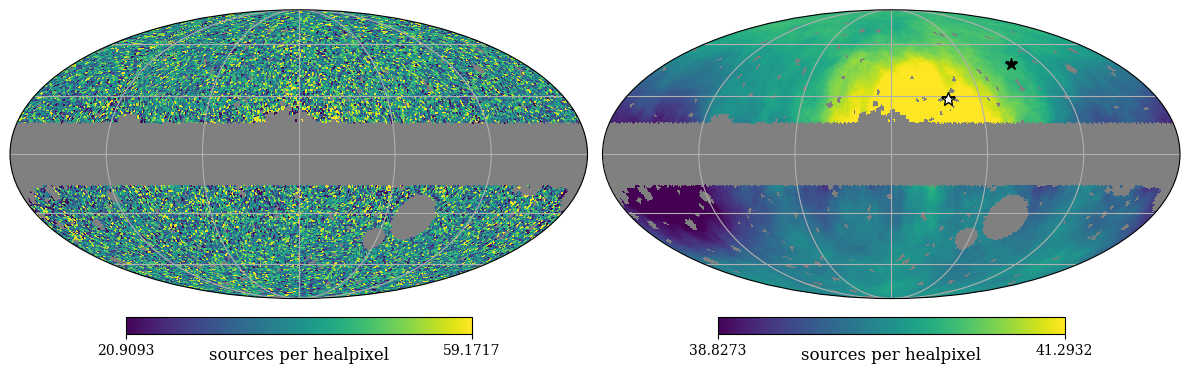
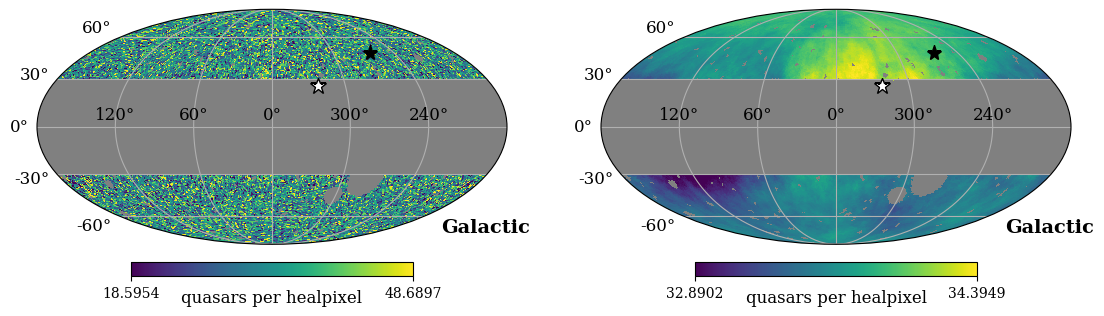
Added "standard" dipole measurement section, continuing to write others...

diff --git a/main.tex b/main.tex
@@ -2,7 +2,7 @@
 
 % To-Do
 % -----
-% - Hogg asks, can we mention field-level inference in the abstract?!
+% - Hogg & Kate: read Oayda et al. 2024. do we agree with their claims about the ability to measure the dipole from a small footprint / masked skies ?
 
 
 \documentclass[modern]{aastex631}
@@ -32,6 +32,8 @@
 \newcommand{\w}{\mathrm{W}}
 \newcommand{\g}{\mathrm{G}}
 \newcommand{\npix}{n_\mathrm{pix}}
+\newcommand{\nside}{N_\mathrm{side}}
+\newcommand{\dipamp}{|\vec{\mathcal{D}}_k|}
 
 \begin{document}
 
@@ -52,8 +54,8 @@ Anomalous power on large angular scales}
 \begin{abstract}\noindent % Hogg insists on this
     There is a discrepancy in amplitude between the dipole measured in the cosmic microwave background and the dipole measured in the distribution of radio and infrared selected quasars.
     These dipoles should be consistent if they are both caused primarily by a local Doppler boost.
-    Here we investigate the amplitudes of the large angular-scale spherical harmonic modes ($1\leq\ell\leq 8$) in the sky distribution of two all-sky quasar catalogs, \catwise and \quaia, both of which depend on NASA\! \wise infrared data.
-    We adopt a forward-modeling approach to generate all-sky mock density maps for both catalogs and employ a form of simulation-based inference to simultaneously measure the dipole amplitude and the level of any excess power on these large angular scales.
+    Here we investigate the amplitudes of the large angular-scale spherical harmonic modes ($1\leq\ell\leq 8$) in the sky distribution of two all-sky quasar catalogs, \quaia and \catwise, both of which depend on NASA\! \wise infrared data.
+    We adopt a forward-modeling approach to generate all-sky mock density maps for both catalogs and employ a form of simulation-based \abby{Hogg: field-level?} inference to simultaneously measure the dipole amplitude and the level of any excess power on these large angular scales.
     This inference yields dipole amplitude $X^{+Y}_{-Z}$ in the direction of the kinematic expectation (xx sigma higher than the expected amplitude) and an excess angular power variance amplitude of $X^{+Y}_{-Z}$.
     The excess power we find could indicate a very severe problem with the $\Lambda$CDM model.
     Our view instead is that this power is probably produced by unmodeled selection effects in these two quasar catalogs, and that it is contaminating all quasar dipole measurements that do not account for it.
@@ -70,7 +72,6 @@ There exists a dipole in the temperature of the CMB, taken to be purely kinemati
 \end{equation}
 \citep{planck_collaboration_planck_2020}.
 This Doppler boost of the CMB monopole is so well-measured by Planck that its expected modulations and aberrations of the temperature fluctuations have been detected in the CMB spectrum \citep{planck_collaboration_planck_2014}.
-\abby{note (emphasize here or somewhere?) that these kinematic effets are strong confirmation that the dipole is caused by our peculiar motion rather than being somehow intrinsic to the CMB!}
 
 The CMB and LSS rest frames should converge under the standard $\Lambda$CDM model; the kinematic dipole anisotropy in the number count of LSS tracers should align with the CMB temperature dipole in direction, with its amplitude modified by a prefactor that depends on the tracer sample.
 The predominant approximation comes from \citet{ellis_expected_1984} and gives the expected kinematic dipole from LSS as
@@ -78,11 +79,11 @@ The predominant approximation comes from \citet{ellis_expected_1984} and gives t
     \label{eq:ellisbaldwin}
     \vec{\mathcal{D}} \simeq \left[2+x(1+\alpha)\right]\vobs/c
 \end{equation}
-where $x$ is the number-count slope of the sources at the magnitude limit of the sample and $\alpha$ is the effective spectral index of the sources.
+where $x$ is the number-count slope of the sources at the magnitude limit of the sample, and $\alpha$ is the effective spectral index \abby{Hogg/KSF: will the average reader know what effective spectral index means, or should I define?} of the sources.
 
-However, there is a growing tension between these two dipole measurements.
+However, there is a claimed \abby{Hogg/KSF: help with word choice here?} tension between these two dipole measurements.
 Several initial analyses were performed on radio source counts from the 1.4 GHz NRAO VLA Sky Survey (NVSS; \citealt{condon_nrao_1998}).
-Though \citet{blake_velocity_2002} found this \textit{matter dipole} to be broadly consistent with the expectation from the CMB, later work such as \citet{singal_large_2011} showed that while the direction of the dipole roughly agreed with the CMB, its amplitude was larger than expected from Eq. \ref{eq:ellisbaldwin}.
+Though \citet{blake_detection_2002} found this matter dipole to be broadly consistent with the expectation from the CMB, later work such as \citet{singal_large_2011} showed that while the direction of the dipole roughly agreed with the CMB, its amplitude was larger than expected from Eq. \ref{eq:ellisbaldwin}.
 Results remain mixed; for example, \citet{darling_universe_2022} found the matter dipole to be consistent with the CMB expectation in both direction and amplitude using radio data from the Very Large Array Sky Survey (VLASS; \citealt{lacy_karl_2020}) and the Rapid
 Australian Square Kilometer Array Pathfinder Continuum
 Survey (RACS; \citealt{mcconnell_rapid_2020}).
@@ -90,26 +91,22 @@ Survey (RACS; \citealt{mcconnell_rapid_2020}).
 Recently, \citet{secrest_test_2021} (hereafter S21) measured the dipole from a sample of infrared-selected quasars from \catwisetwentytwenty to have more than twice the expected amplitude at $4.9\sigma$ confidence.
 \citet{dam_testing_2022} confirmed the S21 result for the identical sample using a different, Bayesian approach.
 This suggests that the source of the discrepancy with the CMB dipole is the sample itself (with the specific choices made in its construction) rather than the analysis method.
+\abby{should add more recent paper results at this point...}
 
-Several dipole analyses raise systematics as a possible source of the discrepancy ([CITE]).
-\abby{do they actually?? at this point I haven't found any major examples, and I think this is part of our point, but to say that no one has raised systematics is a strong claim}
-Unmitigated systematics in the source density maps would impact the angular power at several modes, not just $\ell=1$, though investigations of the angular power in these maps at large angular scales ($\ell\lesssim 10$) have been rare.
-[but not totally absent: point to papers that investigate this!]
+Importantly, unmitigated systematics in the source density maps would impact the angular power at several modes, not just $\ell=1$, though investigations of the angular power in these maps at large angular scales ($\ell\lesssim 10$) have been rare.
+\abby{``rare"... back this up with citations!}
 
 \quaia, a more recent all-sky spectroscopic quasar sample constructed from \gaia and \unwise, offers a new opportunity to measure the LSS dipole \citep{storey-fisher_quaia_2023}.
-The catalog is not totally independent from the S21 sample, since both rely on infrared observations from \textit{WISE}—nevertheless, \quaia involves different observations, source selection choices, and systematics modeling, and therefore can serve as a check on the dipole measured in S21.
+The catalog is not totally independent from the S21 sample, since both rely on infrared observations from \textit{WISE}—nevertheless, \quaia involves different observations, source selection, and systematics, and therefore can serve as a check on the dipole measured in S21.
 In this work, we measure the number-count dipole in the S21 and \quaia samples using the approach described in S21 and compare each to their expectation: the direction of the CMB dipole with amplitude given by Eq. \ref{eq:ellisbaldwin}.
 However, in order to avoid mode-coupling effects on the measured dipole, we further employ a forward-modeling approach to infer both the amplitude of the dipole in the expected direction and the overall level of excess angular power at multipoles $\ell\le 8$.
 \abby{need to explain motivation: why are we doing this? If there is unaccounted-for angular power at other large angular scales, due to mode coupling this could inflate the measured dipole amplitude on the cut sky... (I'm actually not sure how much I trust this statement now since checking out \citet{oayda_cosmic_2024}...)}
 We generate mock all-sky quasar density maps with the same selection function as applied to the real data and employ an Approximate Bayesian Computation (ABC) scheme to estimate the parameter posteriors.
 
-% We further measure the angular power at large spherical harmonic modes ($1\leq\ell\leq 8$) in these maps, compare the results to the expected power under $\Lambda$CDM, and explore the robustness of the measured angular power to investigator choices involved in the sample construction and fitting procedure.
-
 This paper is organized as follows.
 Section \ref{sec:data} describes the construction of the all-sky samples from \catwise and \quaia.
-Section \ref{sec:dipole_expectation} discusses the theoretical matter dipole and the expected amplitude of the dipole in the \catwise and \quaia catalogs under the Ellis-Baldwin approximation.
-In Section \ref{sec:AMCSMC} we present our forward-modeling approach and parameter inference via Approximate Bayesian Computation (ABC) using a Sequential Monte Carlo method.
-Section \ref{sec:model} explains the all-sky source density model used the generate the mock quasar maps for parameter inference.
+Section \ref{sec:dipole_theory} discusses the theoretical matter dipole and the expected amplitude of the dipole in the \catwise and \quaia catalogs under the Ellis-Baldwin approximation.
+In Section \ref{sec:inference_method} we present our forward-modeling approach, the quasar density model used to generate mock sky maps, and parameter inference via Approximate Bayesian Computation (ABC) using a Sequential Monte Carlo method.
 Finally, Sections \ref{sec:results} and \ref{sec:discussion} respectively contain the results and subsequent discussion.
 
 
@@ -140,10 +137,8 @@ However, unless otherwise stated, in other analyses we forego the ecliptic latit
 
 \begin{figure}
     \centering
-    \includegraphics[width=\textwidth]{images/S21_map.png}
-    \caption{Healpix density maps ($N_\mathrm{side}=64$) of the S21 sample with the lowest plane cut investigated, $|b|>15^\circ$, in galactic coordinates using a Mollweide projection. The color bar spans the monopole $\pm$ twice the standard deviation of each map. \textit{Left:} Source counts in each healpixel. \textit{Right:} Source counts smoothed to 1 steradian, with the color bar centered at the monopole. The black star marks the direction of the CMB dipole, and the white star marks the direction of the dipole measured in the \textit{fiducial} sample ($|b|>30^\circ$).
-    Note the underdensity in source density near the galactic center. \abby{update this plot: add graticule labels, make white star the fiducial S21 result (i.e. no regularization / hp.fit\_dipole() output)}
-    \abby{we're doing a $15^\circ$ plane cut in this plot but showing the $30^\circ$ dipole result. I think we should either show only the $30^\circ$ cut or commit to showing the full sky}}
+    \includegraphics[width=\textwidth]{images/catwise_map.png}
+    \caption{Healpix density maps ($\nside=64$) of the S21 sample in galactic coordinates using a Mollweide projection. The fiducial sample contains a $|b|>30^\circ$ plane cut as well as smaller masks. The black star marks the direction of the CMB dipole, and the white star marks the direction of the dipole measured in this sample via the standard method (see Section \ref{sec:standard_dipole}). \textit{Left:} Source counts in each healpixel. The color bar spans the monopole $\pm$ twice the standard deviation of the map. \textit{Right:} Source counts smoothed to 1 steradian, with the color bar centered at the monopole.}
     \label{fig:S21_map}
 \end{figure}
 
@@ -151,12 +146,12 @@ However, unless otherwise stated, in other analyses we forego the ecliptic latit
 \subsection{The Quaia Quasar Sample}
 \label{sec:quaia}
 The \gaia-\unwise Quasar Catalog, or \quaia, is an all-sky spectroscopic catalog constructed from quasar candidates in \gaia DR3 and infrared observations from \wise \citep{storey-fisher_quaia_2023}.
-It spans the largest comoving volume of any existing quasar catalog \abby{is this still true?}, making it especially suited for large-scale precision cosmological measurements.
+It spans the largest comoving volume of any existing quasar catalog \abby{KSF: is this still true?}, making it especially suited for large-scale precision cosmological measurements.
 We use the $G\leq 20.0$ catalog as our fiducial sample, which has 530,364 sources in the fiducial $|b|<30^\circ$ cut, shown in Figure \ref{fig:quaia_map}.
 % We also use the less pure $G\leq 20.5$ sample when exploring dependence on magnitude limit.
 
 The construction of the \quaia sample is largely analogous to the S21 method.
-\abby{justification for why we don't (need to) correct the magnitudes for reddening like in S21?}
+\abby{KSF: justification for why we don't (need to) correct the magnitudes for reddening like in S21?}
 The masks are identical, but we make magnitude cuts in the optical G band ($\mathrm{G}\leq 20.0$) rather than the infrared W1 band.
 We also correct the source counts with \quaia's selection function (see Section \ref{sec:selfuncs}).
 Figure \ref{fig:quaia_map} shows the \quaia sample after correcting by the selection function.
@@ -164,7 +159,7 @@ Figure \ref{fig:quaia_map} shows the \quaia sample after correcting by the selec
 \begin{figure}
     \centering
     \includegraphics[width=\textwidth]{images/quaia_map.png}
-    \caption{Healpix density maps ($N_\mathrm{side}=64$) of the \quaia sample with the lowest plane cut, $|b|>15^\circ$, in galactic coordinates using a Mollweide projection. The source densities have been corrected using the $G<20.0$ selection function map. The masks are identical to those used in the S21 sample (Figure \ref{fig:S21_map}), with the color bar again spanning the monopole $\pm$ twice the standard deviation of each map. \textit{Left:} Source counts in each healpixel. \textit{Right:} Source counts smoothed to 1 steradian. The black star marks the direction of the CMB dipole, and the white star marks the direction of the dipole measured in the \textit{fiducial} sample ($|b|>30^\circ$). Note the unevenness in source density around the galactic plane, in particular the slight overdensity just above the galactic center. There are some extra masked pixels at low galactic latitudes in places with zero quasar counts.}
+    \caption{Healpix density maps ($\nside=64$) of the \quaia sample in galactic coordinates using a Mollweide projection. The fiducial sample contains a $|b|>30^\circ$ plane cut as well as smaller masks. The black star marks the direction of the CMB dipole, and the white star marks the direction of the dipole measured in this sample via the standard method (see Section \ref{sec:standard_dipole}). \textit{Left:} Source counts in each healpixel. The color bar spans the monopole $\pm$ twice the standard deviation of the map. \textit{Right:} Source counts smoothed to 1 steradian, with the color bar centered at the monopole.}
     \label{fig:quaia_map}
 \end{figure}
 
@@ -172,17 +167,25 @@ Figure \ref{fig:quaia_map} shows the \quaia sample after correcting by the selec
 \subsection{Selection functions}
 \label{sec:selfuncs}
 For each sample, we generate a selection function, which gives the completeness in each pixel relative to the predicted number of quasars that would be observed in the absence of any selection effects.
-To model the selection function, \cite{storey-fisher_quaia_2023} uses a Gaussian process to fit healpix maps ($N_\mathrm{side}=64$; \citealt{gorski_healpix_2005}) of the systematics templates to the source counts in each healpixel.
+To model the selection function, \cite{storey-fisher_quaia_2023} uses a Gaussian process to fit healpix maps ($\nside=64$; \citealt{gorski_healpix_2005}) of the systematics templates to the source counts in each healpixel.
 The systematics templates for \quaia are dust extinction, \gaia and \unwise source density, and those missions' scanning laws.\abby{might want to be more specific ?}
-For \catwise, the templates are the \unwise source density... \abby{zodi?}
+We apply the same procedure to \catwise, using the \unwise source density and zodiacal light as the templates.
 To correct the observed counts by the selection function, we simply divide the counts by the relative completeness in each pixel.
 Figure \ref{fig:selfuncs} shows the selection function maps generated for each quasar sample.
 
-[ Figure: selection functions! ]
+\begin{figure}
+    \centering
+    \includegraphics[width=\textwidth]{images/selfuncs.png}
+    \caption{Selection function maps ($\nside=64$) for the \quaia $G\le20.0$ (\textit{left}) and \catwisetwentytwenty (\textit{right}) quasar catalogs.}
+    \label{fig:selfuncs}
+\end{figure}
 
 
-\section{The dipole expectation}
-\label{sec:dipole_expectation}
+\section{The number-count dipole}
+\label{sec:dipole_theory}
+
+\subsection{The Ellis-Baldwin approximation}
+\label{sec:EB}
 Under the kinematic interpretation of the dipole, both the CMB and matter dipole anisotropies are caused by our proper motion with respect to the frame in which the CMB is maximally isotropic.
 Therefore the expected direction of the matter dipole is the same as the CMB dipole (Eq. \ref{eq:CMB_velocity}).
 The expected amplitude of the matter dipole, however, depends on the velocity $\vobs$ of the observer and the properties of the sources in the sample, in particular the number-count slope $x$ and the effective spectral index $\alpha$ of the sample.
@@ -218,24 +221,44 @@ For \catwise, this is $\alpha=1.26$, while for \quaia, the mean is $\alpha=0.71$
 
 From Eq. \ref{eq:ellisbaldwin}, with the velocity inferred from the CMB dipole (Eq. \ref{eq:CMB_velocity}) the expected dipole amplitude in the fiducial S21 sample is $\mathcal{D}_\mathrm{S21}\sim 0.0074$.
 For \quaia, the expected dipole amplitude in the fiducial sample is $\mathcal{D}_\mathrm{Quaia}\sim 0.0052$.
-\abby{how many sig figs to quote here, given that this in an imprecise measurement? should I even only quote one? I currently use two sig figs for the simulations}
-[
-The sources included in each sample change as we investigate the effect of parameter choices involved in their construction (Sections \ref{sec:S21_choices} and \ref{sec:quaia_choices}), meaning the $\alpha$ distributions and number-count curves change too.
-We checked that this change has minimal impact on the expected dipole amplitude, so we use the fiducial values when comparing the measured amplitudes in each sample.
-]
-\abby{might fully cut this, I don't think we're including these parameter choice tests anymore}
+
+\subsection{The dipole model}
+\label{sec:dipole_model}
+
+\abby{bad name.. placeholder}
+
+The dipole anisotropy in the source counts in direction $\hat n=(\theta,\phi)$ on the sky can be expressed as
+\begin{equation}
+    \mathcal{D}(\theta,\phi)=\vec{\mathcal{D}}\cdot \hat n = \sum_{j=1}^3 d_jD_j(\theta,\phi)
+\end{equation}
+where $\vec{\mathcal{D}}\equiv(d_1,d_2,d_3)$ is a 3-vector of amplitudes, and $D_j(\theta,\phi)$ are three orthogonal dipole templates, shown in Figure \ref{fig:dipole_templates}.
+Under the assumption that the observed quasar distribution is isotropic but modified by a Doppler boost (i.e. that the only anisotropy is dipolar), the expected number of quasars at $(\theta,\phi)$ on the sky is the sum of the monopole and dipole contributions:
+\begin{equation}
+\label{eq:dipole_model}
+    n'(\theta,\phi) = \bar n + \mathcal{D}(\theta,\phi)
+\end{equation}
+where $\bar n$ is the monopole, the mean number of quasars in the map.
+\abby{this notation feels icky, too many $d$ variables, $D$, $\mathcal{D}$... KSF/Hogg: any suggestions?}
+\abby{suggestions for ``expected number of quasars" ? do we like the prime? or should I use a different variable (also see eq. \ref{eq:chisq})?}
+
+Of course, the amplitude of the dipole (e.g. as given by \ref{eq:ellisbaldwin}) is the usual norm of the vector,
+\begin{equation}
+    |\vec{\mathcal{D}}|=\sqrt{d_1^2 + d_2^2 + d_3^2}
+\end{equation}
+\abby{this is likely unnecessary, but writing out for completeness to connect to the EB approximation}
+
+\begin{figure}
+    \centering
+    \includegraphics[width=\textwidth]{images/dipole_templates.png}
+    \caption{The three orthogonal dipole templates, $D_j(\theta,\phi)$, in Galactic coordinates using a Mollweide projection, used in the least-squares fit to measure the dipole vector $\vec{\mathcal{D}}$ in the quasar catalogs.}
+    \label{fig:dipole_templates}
+\end{figure}
 
 \subsection{Relationship between $|\vec{\mathcal{D}}|$ and $C_1$}
 
 Existing literature typically describes the sky dipole using one of two conventions.
-The dipole anisotropy in the source counts in direction $\hat n$ on the sky can be expressed as
-\begin{equation}
-    \frac{\delta N}{N}(\hat n) = \vec{\mathcal{D}}\cdot \hat n
-\end{equation}
-where $\vec{\mathcal{D}}\equiv(\mathcal{D}_x,\mathcal{D}_y,\mathcal{D}_z)$ is a vector whose components are the amplitudes of three orthogonal dipole templates.
-This is the convention used in \citet{secrest_test_2021}.
+The convention used in Section \ref{sec:dipole_model} is adopted by \citet{secrest_test_2021}.
 There is a direct transformation between this dipole amplitude $|\vec{\mathcal{D}}|$ and the $\ell=1$ mode of the angular power spectrum $C(\ell)$:
-
 \begin{equation}
     C_1 = \frac{4\pi}{9}|\vec{\mathcal{D}}|^2
 \end{equation}
@@ -243,7 +266,7 @@ with the specific components related to the spherical harmonic coefficients as
 \begin{equation}
     \mathcal{D}_{(x,y,z)} = \sqrt{\frac{3}{4\pi}}\,a_{1(-1,0,1)}
 \end{equation}
-\abby{Hogg: not sure the best way to write this... \citet{gibelyou_dipoles_2012} aligns the dipole in the positive $z$ direction and then only expresses this relationship in terms of $|\vec{\mathcal{D}}|$ and $a_{10}$, without loss of generality. this is definitely the easiest to write, but it's a bit removed from what we do in practice (we use galactic coordinates and so do have to transform all three dipole components).}
+\abby{Hogg: what's the best way to write this math? \citet{gibelyou_dipoles_2012} aligns the dipole in the positive $z$ direction and then only expresses this relationship in terms of $|\vec{\mathcal{D}}|$ and $a_{10}$, without loss of generality. this is definitely the easiest to write, but it's a bit removed from what we do in practice (we use galactic coordinates and so do have to transform all three dipole components).}
 
 \begin{figure}
     \centering
@@ -252,22 +275,38 @@ with the specific components related to the spherical harmonic coefficients as
     \label{fig:alphas_xs}
 \end{figure}
 
+\section{Dipole measurement}
 
-\section{ABC-SMC}
-\label{sec:AMCSMC}
+\subsection{Linear least-squares fit}
+\label{sec:standard_dipole}
 
-We use a forward-modeling approach to infer the dipole and any excess angular power that may be present in the quasar catalogs.
+The [most straightforward / simplest] way to measure the dipole involves a linear least-squares fit to the three orthogonal dipole templates (Figure \ref{fig:dipole_templates}).
+We use the model given by Eq. \ref{eq:dipole_model}, so the four free parameters are the monopole and the amplitudes of the three dipole components:
+\begin{equation}
+    \vec{\theta} = [\,\bar n, d_1, d_2, d_3\,]
+\end{equation}
+
+For some choice of $\theta$, the total squared error for a healpixel $p$ centered on $(\theta_p,\phi_p)$ is
+\begin{equation}
+\label{eq:chisq}
+    \chi^2 = \sum_p \frac{\left(n_p - n'(\theta_p,\phi_p)\right)^2}{\sigma_p^2}
+\end{equation}
+where $n_p$ is the observed number of quasars in the healpixel, $n'(\theta_p,\phi_p)$ is the number of quasars predicted by the model, and $\sigma_p^2$ is the [variance] \abby{Hogg: in practice we use the completeness... is this different than the \textit{variance} of the quasars in the pixel? should I call this the uncertainty squared and say that we treat the completeness as a measure of our uncertainty in that pixel?}
+The best-fit \abby{I know this is a loaded term, not sure if I should expand on our definition of ``best-fit"} values of $\vec\theta$ are those which minimize $\chi^2$.
+\abby{Hogg: should I write out the linear algebra for the least-squares fit ?}
+
+S21 measures the dipole in the \catwisetwentytwenty sample (Figure \ref{fig:S21_map}) using the \texttt{healpy.fit\_dipole()} function, which performs this fit, assuming the identity for the variances $\sigma_p^2$.
+
+\subsection{Field-level inference}
+\label{sec:FLI}
+\abby{or: Hogg: Simulation-based inference; Forward-modeling approach...?}
+
+We use a forward-modeling approach to perform field-level inference, [getting/learning/recovering] posterior probability distributions over the dipole and any excess angular power that may be present in the quasar catalogs.
 In particular, we employ Approximate Bayesian Computation (ABC), a likelihood-free parameter inference method, implemented using the \texttt{pyABC} package \citep{schalte_pyabc_2022}.
-In particular, \texttt{pyABC} uses a sequential Monte-Carlo (SMC) scheme to iteratively update the posterior probability distribution.
-ABC-SMC requires an executable forward-process model and a prior distribution for each parameter.
+\texttt{pyABC} uses a sequential Monte-Carlo (SMC) scheme to iteratively update the posterior probability distribution.
+The primary requisites for ABC-SMC are an executable forward-process model, a prior distribution for each parameter, a choice of distance metric, and a few hyperparameters.
 
-
-
-
-\section{The all-sky model}
-\label{sec:model}
-
-We model the quasar density at some sky position $(\theta,\phi)$ as a stochastic function with two free parameters: the kinematic dipole amplitude $|\vec{\mathcal{D}}_k|$ and the level of excess angular power $\bar C$.
+We model the quasar density at a sky position $(\theta,\phi)$ as a stochastic function with two free parameters: the kinematic dipole amplitude $\dipamp$ and the level of excess angular power $\bar C$.
 We assume that the kinematic dipole points in the same direction as the CMB dipole, $(\ell,b)=(264^\circ,48^\circ)$, with some amplitude $|\vec{\mathcal{D}}_k|$.
 The model also has the freedom to be anisotropic at the largest angular scales, $1\le\ell\le 8$, with excess angular power which is flat in $C(\ell)$ space.
 The spherical harmonic coefficients $a_{\ell m}$ are drawn stochastically from a Gaussian whose width depends on $\bar C$.
@@ -284,33 +323,73 @@ Note that the total dipole in the map is the sum of the kinematic dipole and the
     \vec{\mathcal{D}}_\mathrm{tot}=\vec{\mathcal{D}}_k + \vec{\mathcal{D}}_\gamma 
 \end{equation}
 
-The map $\lambda(\theta,\phi)$ gives the number of quasars observed in a healpixel centered at $(\theta,\phi)$ in the absence of shot noise and selection effects.
+The map $\lambda(\theta,\phi)$ returns the number of quasars observed in a healpixel centered at $(\theta,\phi)$ in the absence of shot noise and selection effects.
 To incorporate these observational effects, we multiply the map by the selection function (Section \ref{sec:selfuncs}) and draw the final quasar counts in each pixel from a Poisson distribution with expectation $\lambda(\theta,\phi)$.
+An example mock generated using this model is shown in Figure \ref{fig:example_mock}.
 
-[ Figure (?): example mocks, maybe even extreme cases that don't look like the data (e.g. very low excess power, very high excess power) to give the reader a sense of range]
+To infer the free parameters $\dipamp$ and $\bar C$, we call the model many times, each time with the two parameters sampled at random from the prior.
+The goal is to accept mocks that look like the data and reject the others, keeping track of the values of the parameters used to generate the accepted mocks.
+Quantitatively, for ABC, this means condensing each mock into some summary statistic, then comparing the summary statistics of the mock and the observed data via a chosen distance metric.
+We generate the mock quasar maps at $\nside=64$, and the summary statistic is the overdensity map downgraded to $\nside=1$, as the lower resolution allows for faster convergence.
+The distance metric is the Euclidean distance between the mock map and the observed data map,
+\begin{equation}
+    \delta_i = \sqrt{\vec d_\mathrm{sim}(\theta_i)-\vec d_\mathrm{data}}
+\end{equation}
+where each $\vec d$ is a 16-vector of the quasar overdensity in each healpixel, and $\theta_i=\{\dipamp,\bar C\}$ are the parameters used to generate mock $i$.
+The mock is accepted if $\delta_i$ is below some acceptance threshold $\varepsilon$, and rejected otherwise.
+
+\begin{figure}
+    \centering
+    \includegraphics[width=\textwidth]{images/example_mock.png}
+    \caption{Example mock \quaia-like quasar overdensity map constructed using our model, in Galactic coordinates. \textit{Left:} Kinematic dipole in the CMB dipole direction with expected amplitude 0.0052 from the Ellis-Baldwin formula (Eq. \ref{eq:ellisbaldwin}). \textit{Center:} Sum of the kinematic dipole and excess power maps. The excess power amplitude is $\bar C = 10^{-6}$, which is around \quaia shot noise, and injected at scales $1\le\ell\le 8$. \textit{Right:} Final mock overdensity map: The sum of the kinematic dipole and excess power overdensity maps, masked and Poisson-sampled to include shot noise.}
+    \label{fig:example_mock}
+\end{figure}
 
 
 \section{Results}
 \label{sec:results}
 
-We use the ABC-SMC algorithm (Section \ref{sec:AMCSMC}) and the forward-process sky model described in Section \ref{sec:model} to infer both $|\vec{\mathcal{D}}_{\mathrm{proj},k}|$ the amplitude of the quasar dipole projected along the CMB dipole direction, and $\bar C$, the average excess angular power at the largest angular scales, $1\le\ell\le 8$.
+\subsection{Standard dipole measurement}
+\label{sec:standard_results}
+
+
+\subsection{Field-level inference}
+\label{sec:fbi_results}
+We use the ABC-SMC algorithm with the forward-process model described in Section \ref{sec:FLI} to infer both $|\vec{\mathcal{D}}_{\mathrm{proj},k}|$, the amplitude of the quasar dipole projected along the CMB dipole direction, and $\bar C$, the average excess angular power at $1\le\ell\le 8$.
 We require 500 accepted samples per generation and run for 18 generations.
+The resulting posteriors are shown in Figure \ref{fig:quaia_posterior} for \quaia and Figure \ref{fig:catwise_posterior} for \catwise.
+\abby{KSF/Hogg: do we want to show any $C(\ell)$ plots here?}
 
 \begin{figure}
     \centering
-    \includegraphics[width=0.9\linewidth]{images/quaia_ABC_posterior.png}
-    \caption{Posterior distribution for the \quaia sample. The vertical blue line indicates the expected dipole amplitude from the Ellis-Baldwin test (0.0052), while the vertical green lines indicate the median of the parameters used to generate the accepted samples.}
+    \includegraphics[width=0.6\linewidth]{images/quaia_posterior.png}
+    \caption{Posterior distribution for the \quaia $G\le 20.0$ sample. The vertical solid line indicates the expected dipole amplitude from the Ellis-Baldwin test (0.0052), while the vertical dashed lines indicate the median of the parameters used to generate the accepted samples.}
     \label{fig:quaia_posterior}
 \end{figure}
 
 \begin{figure}
     \centering
-    \includegraphics[width=0.9\linewidth]{images/catwise_ABC_posterior.png}
-    \caption{Posterior distribution for the \quaia G<20.0 sample. The vertical blue line indicates the expected dipole amplitude from the Ellis-Baldwin test (0.0074), while the vertical green lines indicate the median of the parameters used to generate the accepted samples.}
+    \includegraphics[width=0.6\linewidth]{images/catwise_posterior.png}
+    \caption{Posterior distribution for the \catwise sample. The vertical solid line indicates the expected dipole amplitude from the Ellis-Baldwin test (0.0074), while the vertical dashed lines indicate the median of the parameters used to generate the accepted samples.}
     \label{fig:catwise_posterior}
 \end{figure}
 
-[ Figure (?): Cell results from posteriors vs data ]
+
+\section{All the other stuff we did}
+\label{sec:additional_tests}
+\begin{itemize}
+    \item Infer map parameters by matching mock and data angular power spectra, $C(\ell)$: we continually ran into regularization conundrums
+    \begin{itemize}
+        \item tried a few ways to choose a reasonable regularization strength $\Lambda$... to no avail
+    \end{itemize}
+    \item Test dependence of measured dipole on sample construction choices: we found the measured dipole to be sensitive to these choices, especially the galactic plane cut (maybe not enough to match the dipole to its expectation, but definitely enough to shake S21's $4.9\sigma$ confidence)
+    \begin{itemize}
+        \item Galactic plane cut
+        \item Magnitude cut
+        \item ``Small masks" radius
+        \item For \catwise, extinction correction parameters
+    \end{itemize}
+\end{itemize}
 
 
 \section{Discussion}
